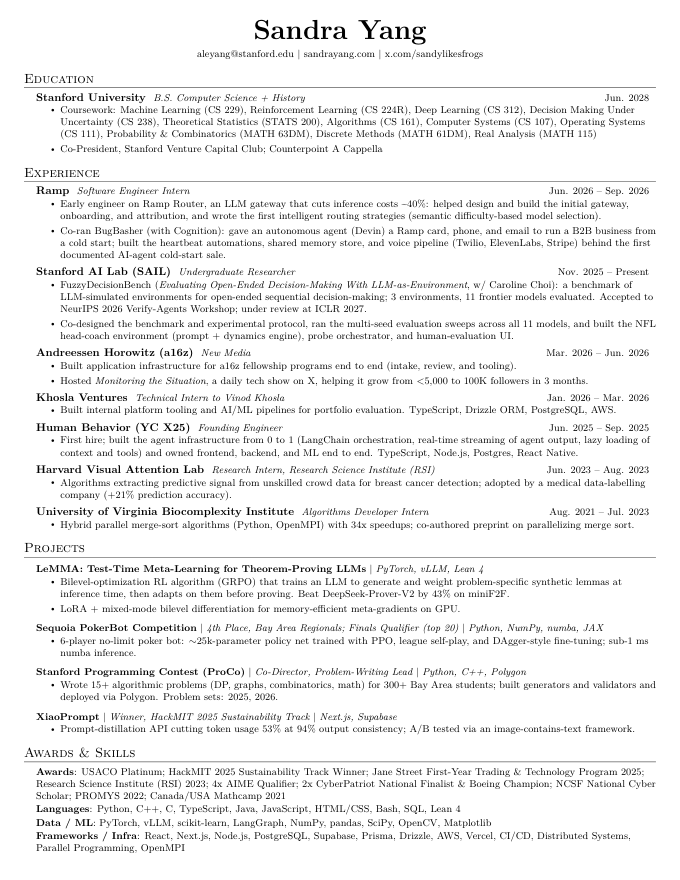
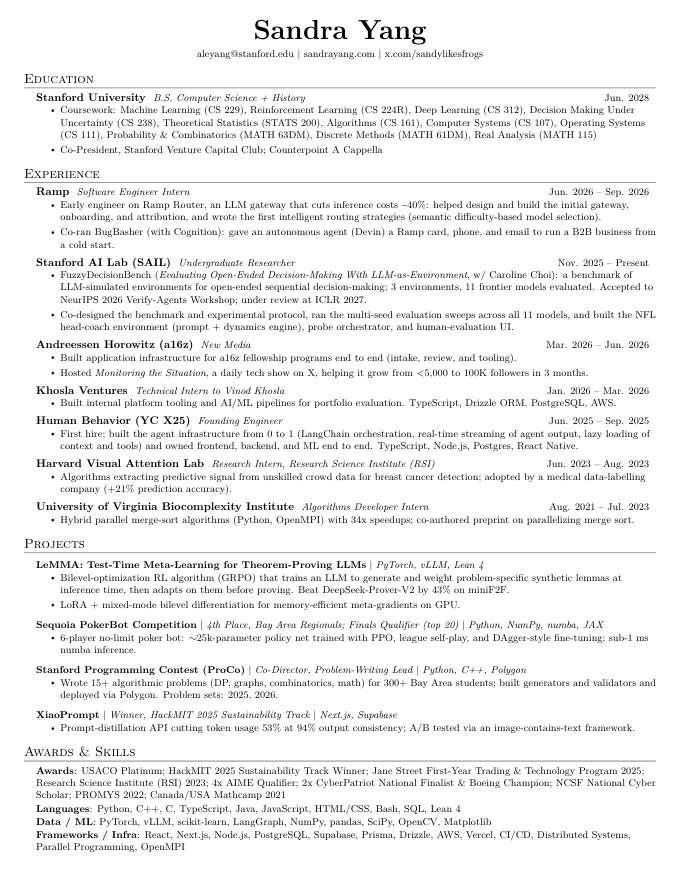
Resume: one-sentence BugBasher bullet

Changed region(s): [[0.0309, 0.1227, 0.9574, 0.9818]]

diff --git a/resume/resume.tex b/resume/resume.tex
@@ -84,7 +84,7 @@
       {Ramp}{Software Engineer Intern}{Jun. 2026 -- Sep. 2026}
       \resumeItemListStart
         \resumeItem{Early engineer on \href{https://router.com}{Ramp Router}, an LLM gateway that cuts inference costs \textasciitilde40\%: helped design and build the initial gateway, onboarding, and attribution, and wrote the first intelligent routing strategies (semantic difficulty-based model selection).}
-        \resumeItem{Co-ran \href{https://sandrayang.com/bugbasher}{BugBasher} (with Cognition): gave an autonomous agent (Devin) a Ramp card, phone, and email to run a B2B business from a cold start; built the heartbeat automations, shared memory store, and voice pipeline (Twilio, ElevenLabs, Stripe) behind the first documented AI-agent cold-start sale.}
+        \resumeItem{Co-ran \href{https://sandrayang.com/bugbasher}{BugBasher} (with Cognition): gave an autonomous agent (Devin) a Ramp card, phone, and email to run a B2B business from a cold start.}
       \resumeItemListEnd
 
     \resumeSubheading
